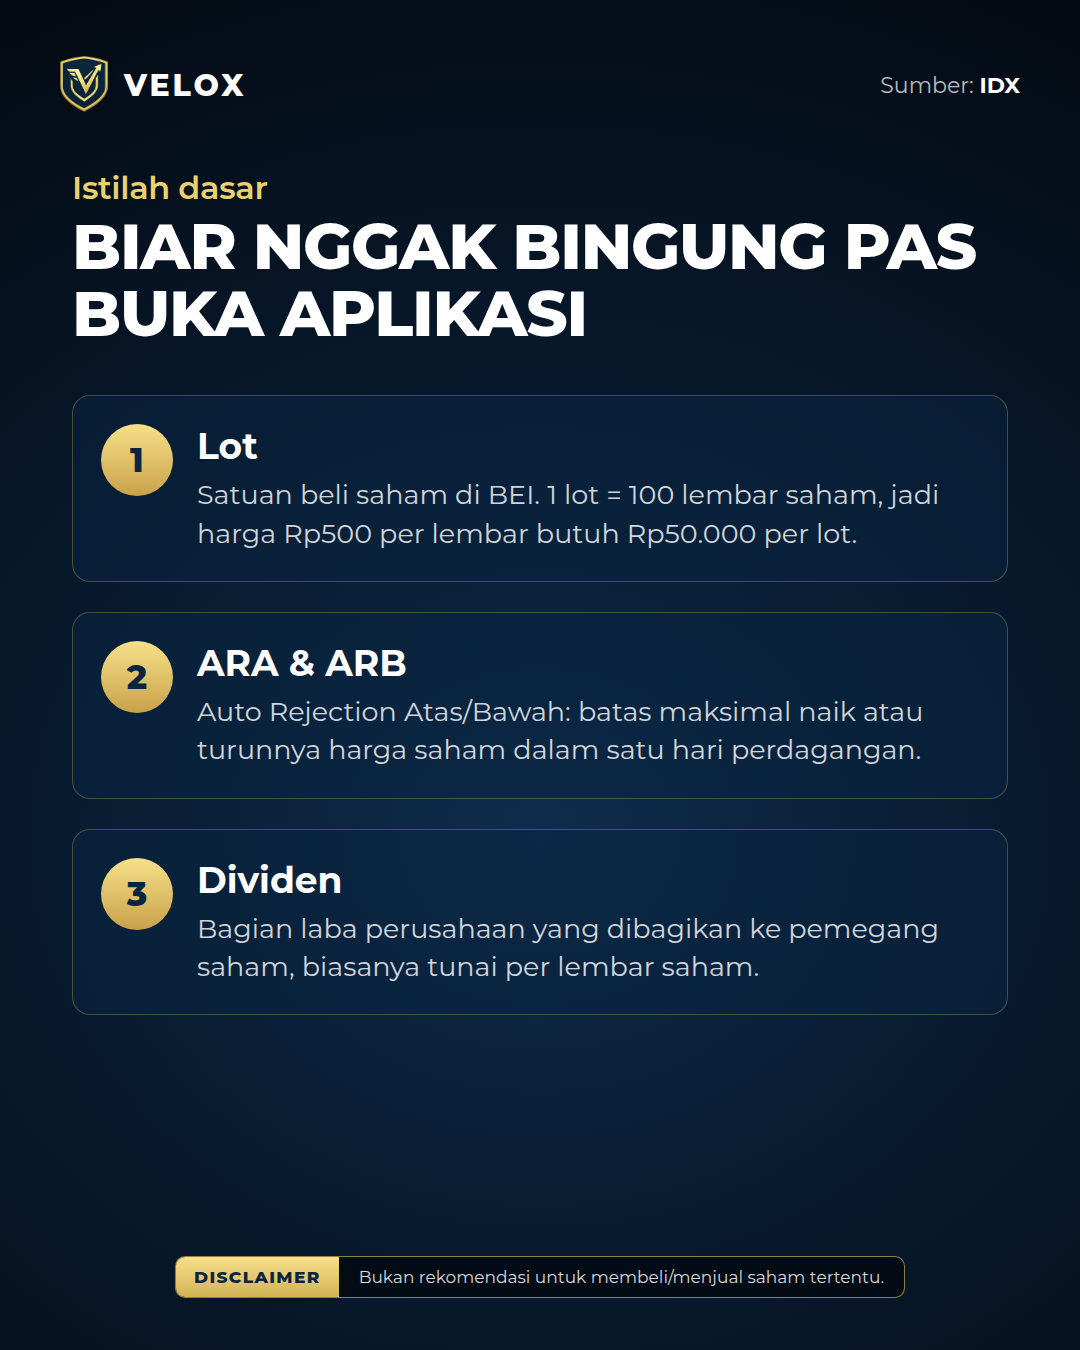
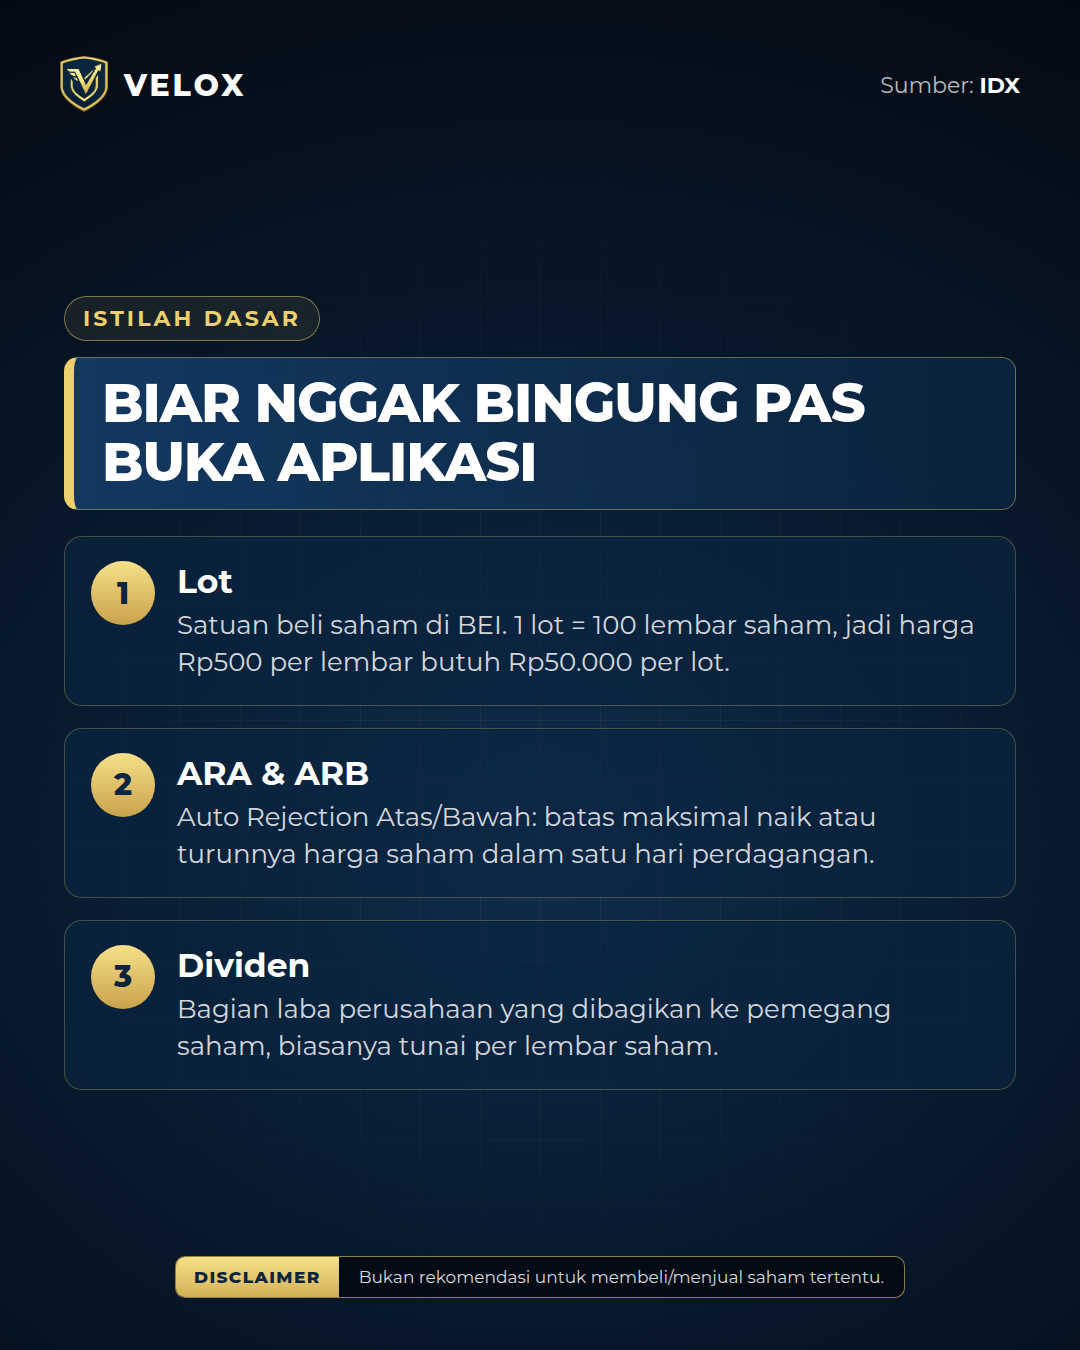
feat: visual content slides (compare, rows, bar, timeline, card)
Slide isi sebelumnya cuma kartu teks. Sekarang slide 'content' bisa disusun dari
blok visual seperti di referensi: angka sebelum->sesudah dengan bar, tabel angka
dengan perubahan hijau/merah, bar komposisi, timeline, judul dalam kotak sorotan,
dan gambar band opsional. Isi mengecil otomatis; kalau tetap kepanjangan muncul
pita merah. Contoh: examples/hsc.json.

Changed region(s): [[0.0611, 0.1244, 0.9167, 0.7778], [0.825, 0.3422, 0.8556, 0.3733]]

diff --git a/BRIEF.md b/BRIEF.md
@@ -32,8 +32,8 @@ Kalau Muse yang menyusun gambar akhirnya sendiri, pakai `out/frame/01.png`. File
   "slides": [
     { "type": "cover", "layout": "top", "hero": "hero.png",
       "kicker": "Subjudul tipis", "headline": ["BARIS PUTIH", "BARIS PUTIH"], "accent": ["BARIS EMAS"] },
-    { "type": "points", "kicker": "Label emas kecil", "title": "Judul slide",
-      "items": [{ "title": "Poin", "body": "Penjelasan 1–2 kalimat." }] },
+    { "type": "content", "chip": "Label kecil", "title": "Judul slide **kata emas**", "hero": "band.png",
+      "blocks": [ { "text": "..." }, { "label": "Judul blok", "compare": { "from": "83", "to": "383" } } ] },
     { "type": "cta", "kicker": "Update saham tiap hari", "headline": ["FOLLOW &"], "accent": ["SIMPAN POST INI"] }
   ]
 }
@@ -41,7 +41,25 @@ Kalau Muse yang menyusun gambar akhirnya sendiri, pakai `out/frame/01.png`. File
 
 - `layout: "top"`: teks di atas, objek hero di bagian bawah. `layout: "bottom"`: kebalikannya.
 - Judul idealnya 2–3 baris dengan ±18 karakter per baris. Ukuran huruf mengecil otomatis. Kalau tetap kepanjangan, kalimatnya turun ke baris baru (tidak terpotong).
-- `points` paling enak berisi 3–4 item. `sumber` muncul di cover dan slide isi.
+- `sumber` muncul di cover dan slide isi.
+
+### Slide isi (`content`)
+
+Slide isi **jangan berupa tembok teks**. Ubah angka di berita menjadi visual. Satu slide berisi `chip` (opsional), `title`, lalu **2–3 blok** dari daftar di bawah. Tulis `**teks**` untuk menebalkan kata dengan warna emas. Contoh lengkap ada di `examples/hsc.json` (hasilnya di `out/hsc/`).
+
+| Blok | Pakai untuk | Bentuk |
+| --- | --- | --- |
+| `text` | 1–2 kalimat pengantar | `"text": "BEI menghapus batas **Rp5 triliun**."` |
+| `compare` | angka sebelum → sesudah (bar otomatis kalau naik) | `"compare": { "from": "83", "to": "383", "fromLabel": "Sebelumnya", "toLabel": "Sekarang", "note": "..." }` |
+| `rows` | tabel angka + perubahan (+ hijau, − merah) | `"rows": [{ "label": "IHSG dibuka", "value": "5.139,09", "change": "+0,26%" }]` (opsional `"tone": "up"/"down"`) |
+| `bar` | komposisi/perbandingan (naik/turun, porsi kepemilikan) | `"bar": [{ "label": "Naik", "value": 134, "tone": "up" }, { "label": "Stagnan", "value": 152 }]` |
+| `timeline` | jadwal atau kronologi | `"timeline": [{ "date": "Jumat, 13 Nov", "text": "..." }]` |
+| `card` | definisi/penjelasan singkat | `"card": { "title": "Apa itu HSC?", "body": "..." }` |
+| `points` | 3 poin bernomor | `"points": [{ "title": "...", "body": "..." }]` |
+
+Semua blok bisa diberi `"label"` (judul kecil emas di atasnya). Isi slide mengecil otomatis supaya muat. Kalau tetap kepanjangan, muncul **pita merah "KONTEN KEPANJANGAN"** di slide, tandanya teks atau bloknya harus dikurangi.
+
+`hero` di slide isi bersifat opsional. Gambarnya tampil sebagai band di bagian atas slide (tinggi 640px, memudar ke bawah), dan isi slide turun ke bawah gambar. Pakai gambar tanpa teks dengan objek di tengah. Kalau ada gambar, pakai maksimal 2 blok.
 
 ## Warna (diambil dari logo shield Velox)
 

diff --git a/MUSE-PROMPT.md b/MUSE-PROMPT.md
@@ -12,6 +12,7 @@ Kamu desainer konten Instagram untuk **Velox**, komunitas investasi saham Indone
 - Overlay logo + disclaimer (PNG transparan 1080×1350): https://raw.githubusercontent.com/Syauqi-N/velox-ig-kit/main/out/frame/01.png
 - Logo shield Velox: https://raw.githubusercontent.com/Syauqi-N/velox-ig-kit/main/brand/velox-shield.png
 - Format data slide: https://raw.githubusercontent.com/Syauqi-N/velox-ig-kit/main/examples/contoh.json
+- Contoh slide isi yang benar (angka jadi visual): https://raw.githubusercontent.com/Syauqi-N/velox-ig-kit/main/examples/hsc.json , hasilnya https://raw.githubusercontent.com/Syauqi-N/velox-ig-kit/main/out/hsc/01.png dan https://raw.githubusercontent.com/Syauqi-N/velox-ig-kit/main/out/hsc/02.png
 
 **Topik:** pilih 1 berita saham Bursa Efek Indonesia yang paling ramai dibahas hari ini dari media kredibel (CNBC Indonesia, Kontan, Bisnis.com, IDX Channel). Sebutkan judul dan link beritanya. Jangan mengarang angka; semua angka harus dari berita itu.
 
@@ -19,7 +20,8 @@ Kamu desainer konten Instagram untuk **Velox**, komunitas investasi saham Indone
 1. **Gambar hero** 1080×1350 (4:5). Pakai template prompt "Layout top" di BRIEF: objek di setengah bawah, 45% bagian atas kosong dan gelap. Palet navy `#0a2540` + cahaya emas `#ecd06e`. **Tanpa teks, angka, atau logo apa pun di dalam gambar.**
 2. **post.json** dengan format sama seperti contoh:
    - `cover`: `kicker` 1 kalimat pendek; `headline` 1–2 baris putih + `accent` 1 baris emas; tiap baris maksimal ±18 karakter, huruf kapital.
-   - 1–2 slide `points`, masing-masing 3 poin (judul pendek + 1–2 kalimat penjelasan).
+   - 2 slide `content` (lihat bagian "Slide isi" di BRIEF). Tiap slide berisi `title` + **2–3 blok visual**. Angka dari berita **wajib** dijadikan `compare` / `rows` / `bar` / `timeline`, jangan ditulis sebagai paragraf. Tebalkan angka kunci dengan `**...**`. Maksimal 25 kata per `text`/`body`.
+   - Opsional: 1 gambar band per slide isi (tanpa teks, objek di tengah), isi field `hero` di slide itu.
    - `cta` penutup.
    - `sumber`: nama media. `handle`: `@velox`.
 3. **Caption IG**: 1 kalimat pembuka yang bikin penasaran, 3–4 kalimat ringkasan, "Sumber: …", lalu baris "Disclaimer: bukan rekomendasi untuk membeli/menjual saham tertentu.", lalu 5–8 hashtag.
